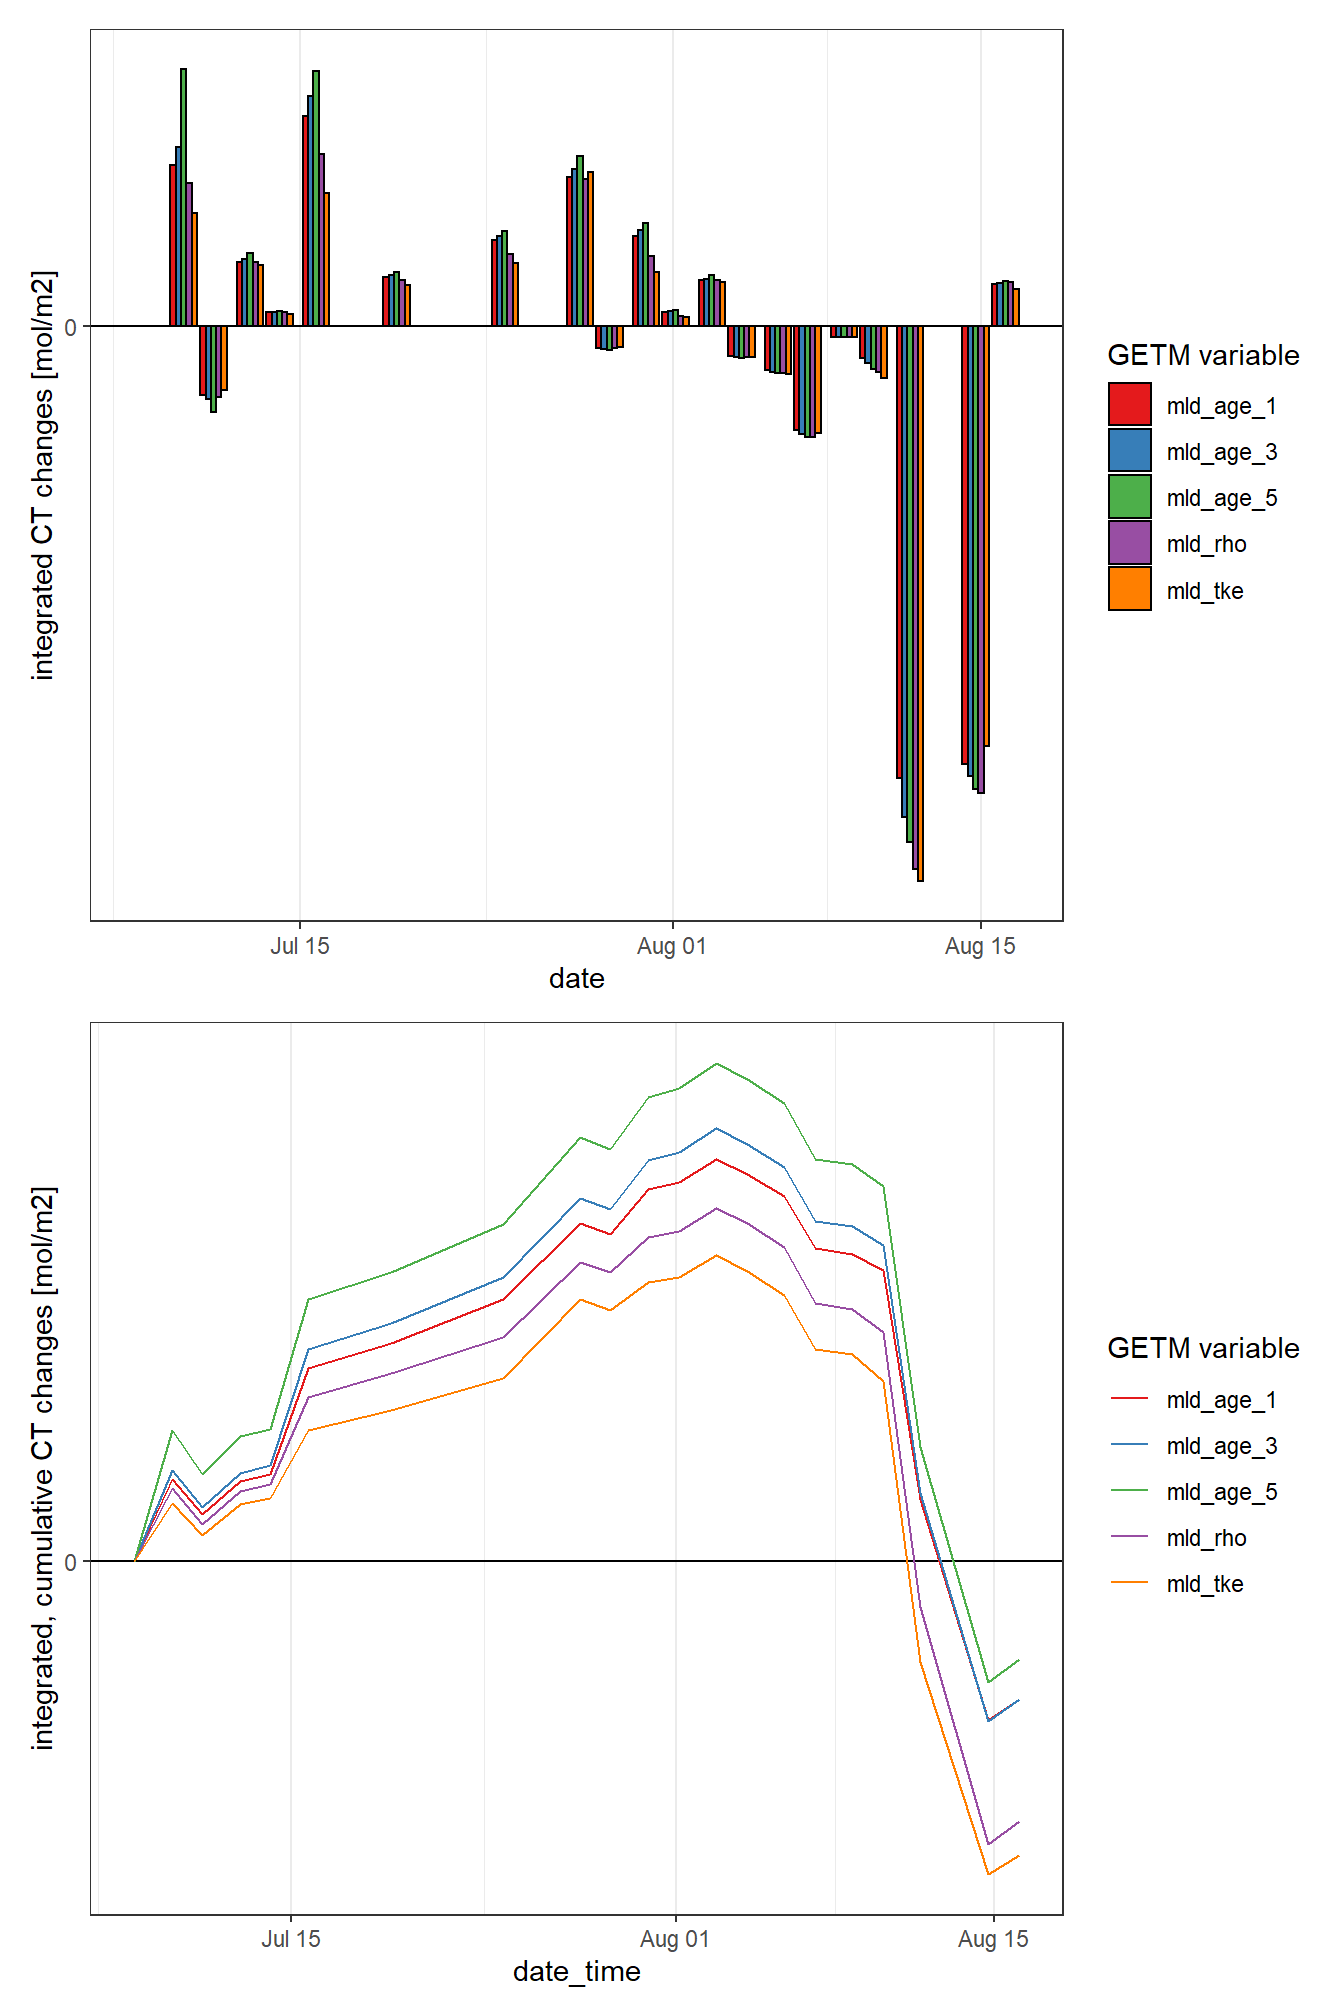
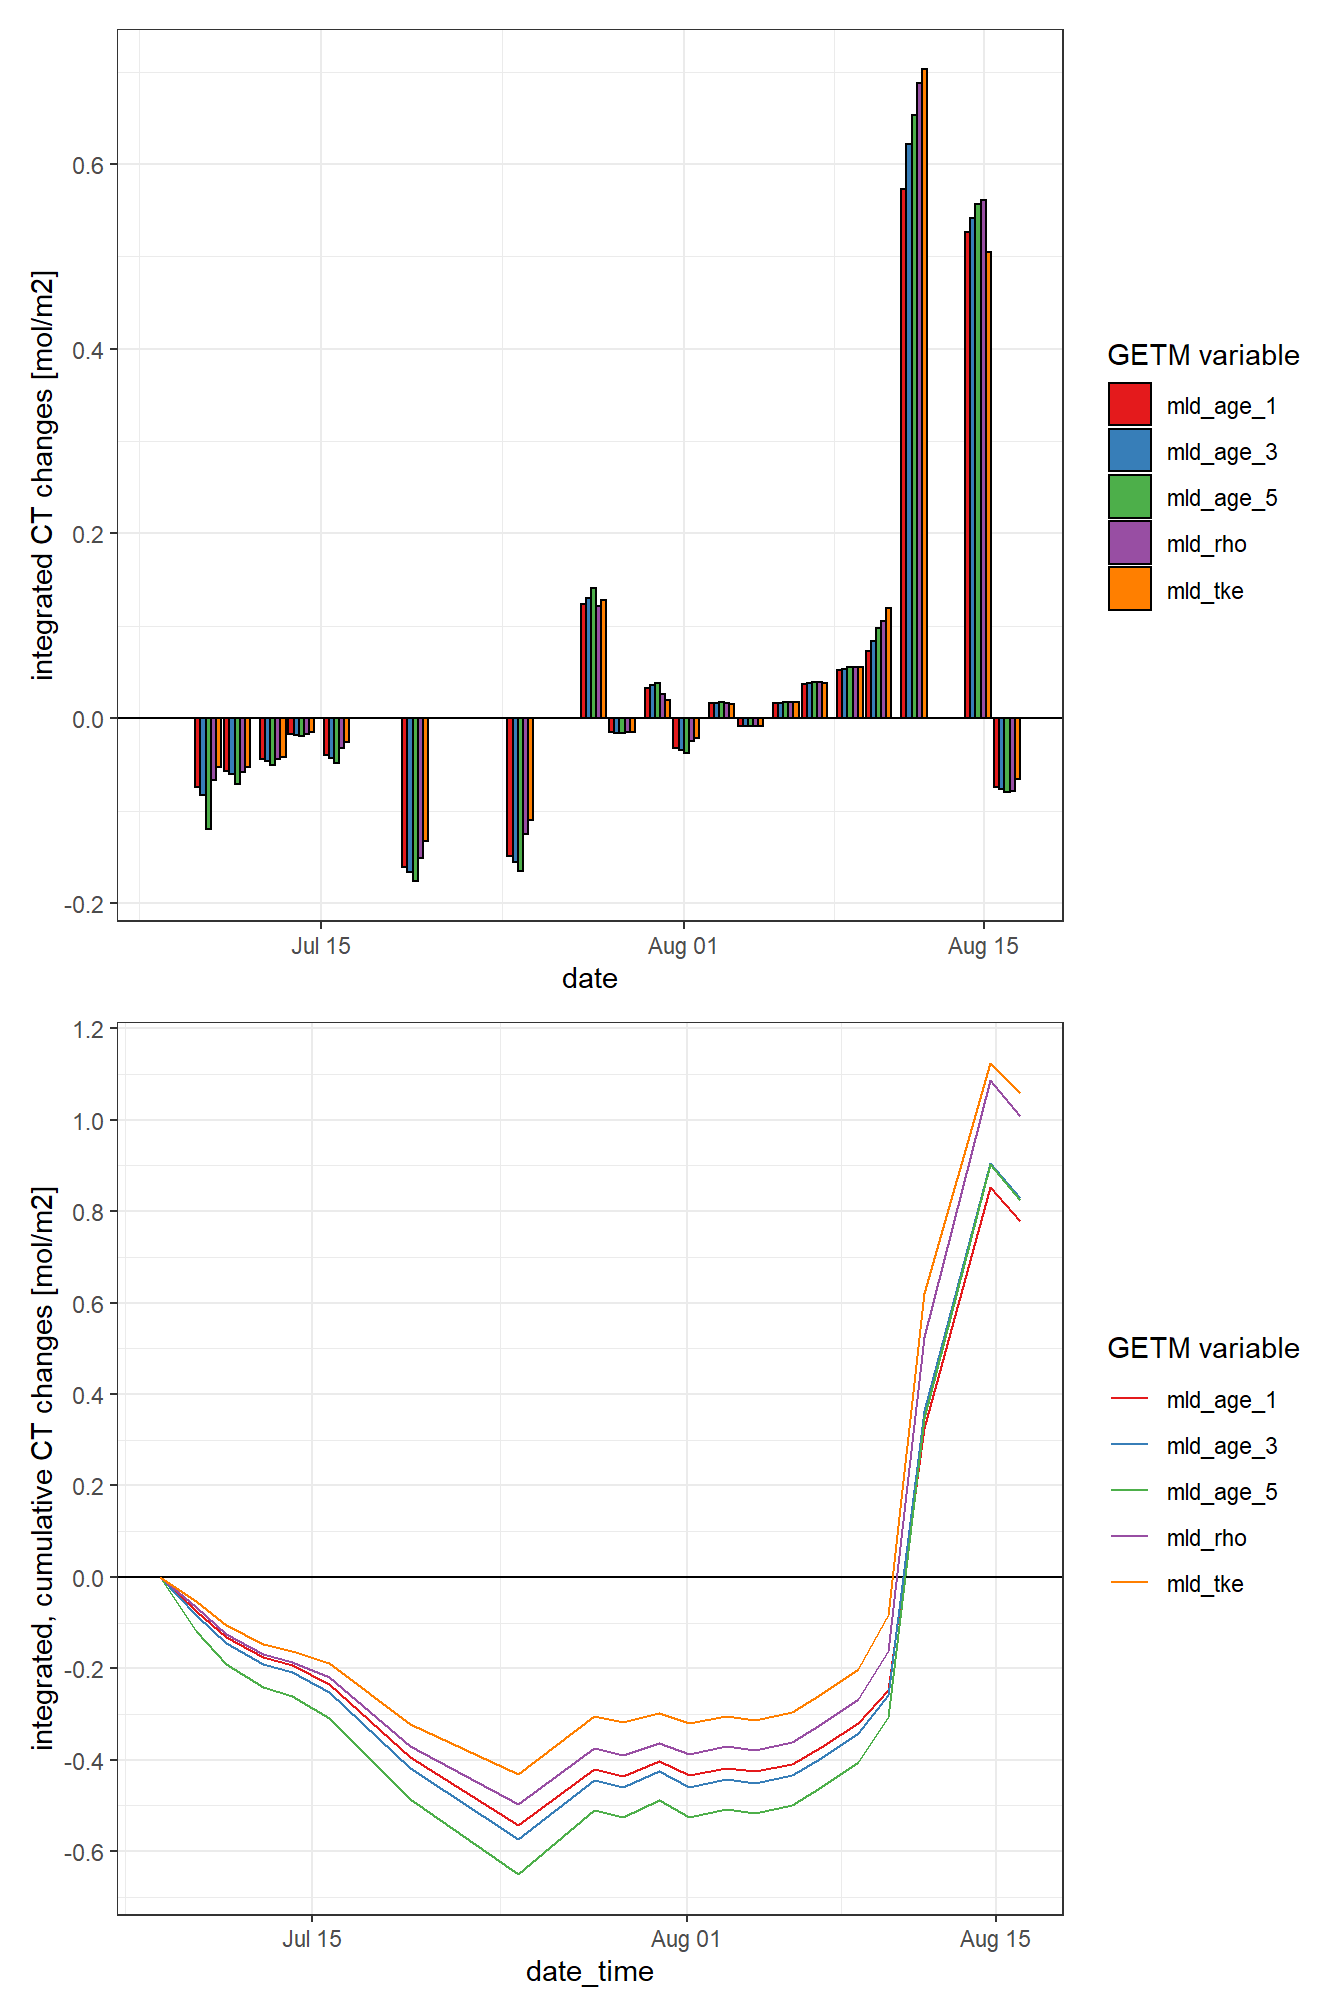
Build site.

diff --git a/docs/Finnmaid+GETM.html b/docs/Finnmaid+GETM.html
@@ -554,10 +554,10 @@ This reproducible <a href="http://rmarkdown.rstudio.com">R Markdown</a> analysis
 <div class="panel panel-default">
 <div class="panel-heading">
 <p class="panel-title">
-<a data-toggle="collapse" data-parent="#workflowr-checks" href="#strongRepositoryversionstrongahrefhttpsgithubcomjensdanielmuellerBloomSailtreeee9f48e6d695e149bd1b9e4c65fc854dc5a6de75targetblankee9f48ea"> <span class="glyphicon glyphicon-ok text-success" aria-hidden="true"></span> <strong>Repository version:</strong> <a href="https://github.com/jens-daniel-mueller/BloomSail/tree/ee9f48e6d695e149bd1b9e4c65fc854dc5a6de75" target="_blank">ee9f48e</a> </a>
+<a data-toggle="collapse" data-parent="#workflowr-checks" href="#strongRepositoryversionstrongahrefhttpsgithubcomjensdanielmuellerBloomSailtree62fb894ec9a47d1bfad320bdf8a60885e304de63targetblank62fb894a"> <span class="glyphicon glyphicon-ok text-success" aria-hidden="true"></span> <strong>Repository version:</strong> <a href="https://github.com/jens-daniel-mueller/BloomSail/tree/62fb894ec9a47d1bfad320bdf8a60885e304de63" target="_blank">62fb894</a> </a>
 </p>
 </div>
[2 lines of base64/hex data omitted]
 <div class="panel-body">
 <p>
 Great! You are using Git for version control. Tracking code development and connecting the code version to the results is critical for reproducibility. The version displayed above was the version of the Git repository at the time these results were generated. <br><br> Note that you need to be careful to ensure that all relevant files for the analysis have been committed to Git prior to generating the results (you can use <code>wflow_publish</code> or <code>wflow_git_commit</code>). workflowr only checks the R Markdown file, but you know if there are other scripts or data files that it depends on. Below is the status of the Git repository when the results were generated:
@@ -1066,7 +1066,7 @@ rm(fm_ID, fm, ts_gap, ts_profiles_ID_long_surface)</code></pre>
 <pre class="r"><code>iCT_MLD &lt;- fm_ts_ID %&gt;%
   select(date, var, value) %&gt;% 
   pivot_wider(values_from = value, names_from = var) %&gt;% 
-  set_names(c(&quot;date_time&quot;, &quot;SST&quot;, &quot;CT&quot;))
+  rename(date_time = date, SST = tem)
 
 iCT_MLD &lt;- full_join(iCT_MLD,
                      gt_2d_daily %&gt;% select(-c(SSS, SST, U_10)))
@@ -1338,14 +1338,8 @@ iCT_dT %&gt;%
 <div id="open-tasks-questions" class="section level1">
 <h1><span class="header-section-number">6</span> Open tasks / questions</h1>
 <ul>
-<li>Re-read Finmmaid data in correct box including sd, min/max</li>
-<li>Plot timeseries with errorbars for fm and ts, use ts in 1 - 5 m</li>
-<li>Plot hovmoeller for GETM water mass age</li>
-<li>Move GETM windspeed to end</li>
-<li>Compare STD profiles and MLD: GETM vs BloomSail</li>
 <li>Plot profiles for:
 <ul>
-<li>GETM temperature at Finnmaid time stamps</li>
 <li>GETM incremental temperature at Finnmaid time stamps</li>
 </ul></li>
 <li>Plot hovmoeller for incremental changes in GETM temperature</li>
